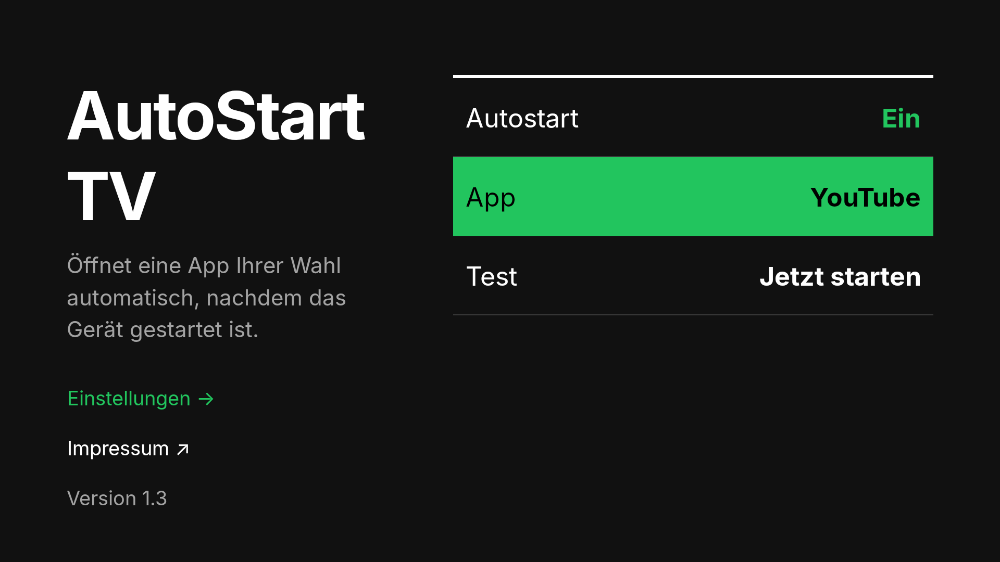
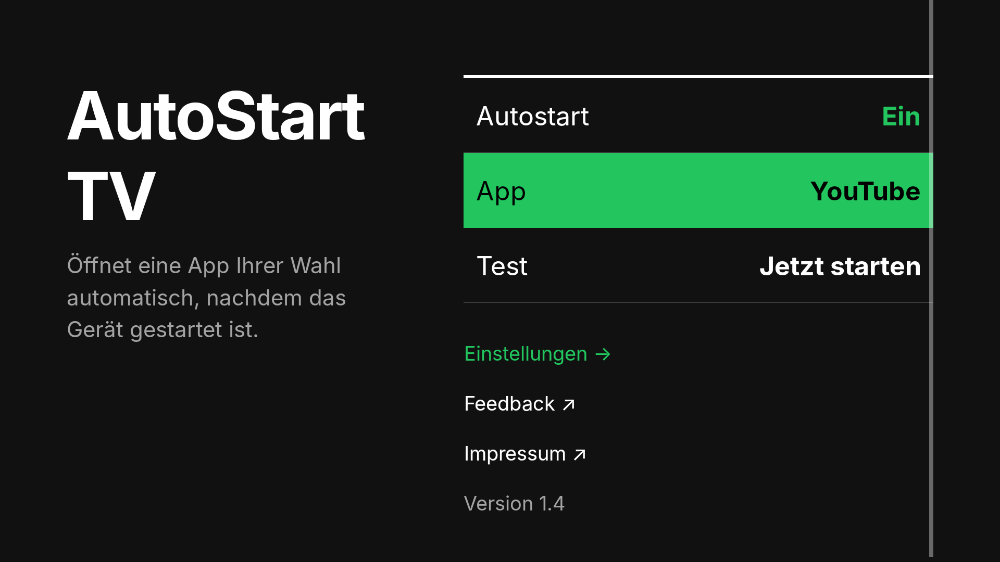
Add feedback link; links below the settings on TVs
- Feedback link in the imprint style opens a mail to feedback@maltethier.de
  with the subject "Feedback AutoStartTV"; shows the address if no mail app exists
- TVs use the landscape layout so the four links no longer overlap the text
- Version 1.4

Claude-Session: https://claude.ai/code/session_01Mzgtb4TiVnagej2P19AmY4

diff --git a/app/src/main/java/de/autostarttv/MainActivity.java b/app/src/main/java/de/autostarttv/MainActivity.java
@@ -40,6 +40,7 @@ public class MainActivity extends Activity {
         settingsLink = findViewById(R.id.text_settings);
         settingsLink.setOnClickListener(v ->
                 startActivity(new Intent(this, SettingsActivity.class)));
+        findViewById(R.id.text_feedback).setOnClickListener(v -> sendFeedback());
         findViewById(R.id.text_imprint).setOnClickListener(v -> openImprint());
         ((TextView) findViewById(R.id.text_version))
                 .setText(getString(R.string.version, versionName()));
@@ -122,6 +123,23 @@ public class MainActivity extends Activity {
         }
         if (!AppLauncher.launch(this, settings.getPackage())) {
             Toast.makeText(this, R.string.launch_failed, Toast.LENGTH_SHORT).show();
+        }
+    }
+
+    /** Opens the e-mail app with address and subject already filled in. */
+    private void sendFeedback() {
+        String email = getString(R.string.feedback_email);
+        String subject = getString(R.string.feedback_subject);
+        Intent intent = new Intent(Intent.ACTION_SENDTO,
+                Uri.parse("mailto:" + email + "?subject=" + Uri.encode(subject)));
+        intent.putExtra(Intent.EXTRA_EMAIL, new String[]{email});
+        intent.putExtra(Intent.EXTRA_SUBJECT, subject);
+        try {
+            startActivity(intent);
+        } catch (ActivityNotFoundException e) {
+            ChoiceDialog.show(this, getString(R.string.feedback_title),
+                    getString(R.string.feedback_no_mail_app),
+                    Collections.singletonList(getString(R.string.ok)), null, -1, null);
         }
     }
 

diff --git a/README.md b/README.md
@@ -20,6 +20,8 @@ eine Spalte im Hochformat. Bedienbar mit Fernbedienung und Touch.
 4. **Einstellungen →** öffnen (grün hervorgehoben, solange etwas fehlt):
    - optional **Verzögerung** einstellen (0–30 Sekunden nach dem Start),
    - „Über anderen Apps einblenden“ erteilen.
+
+Feedback: **Feedback ↗** öffnet die E-Mail-App an feedback@maltethier.de mit dem Betreff „Feedback AutoStartTV“.
    Ab Android 10 darf eine App nur mit dieser Berechtigung andere Apps im Hintergrund starten.
    Hat der Fernseher dafür keine Einstellung, per Computer:
    ```
